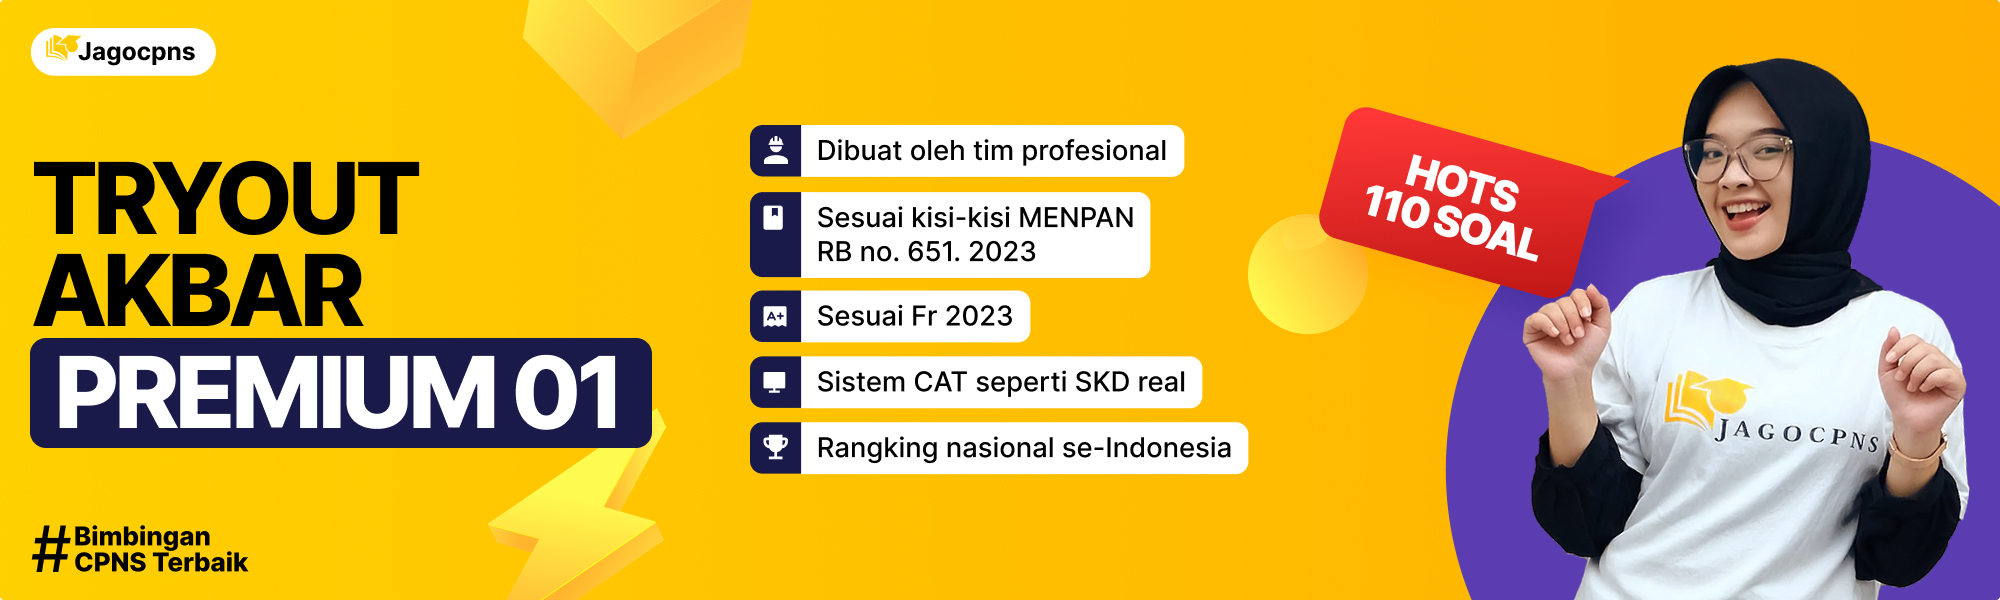
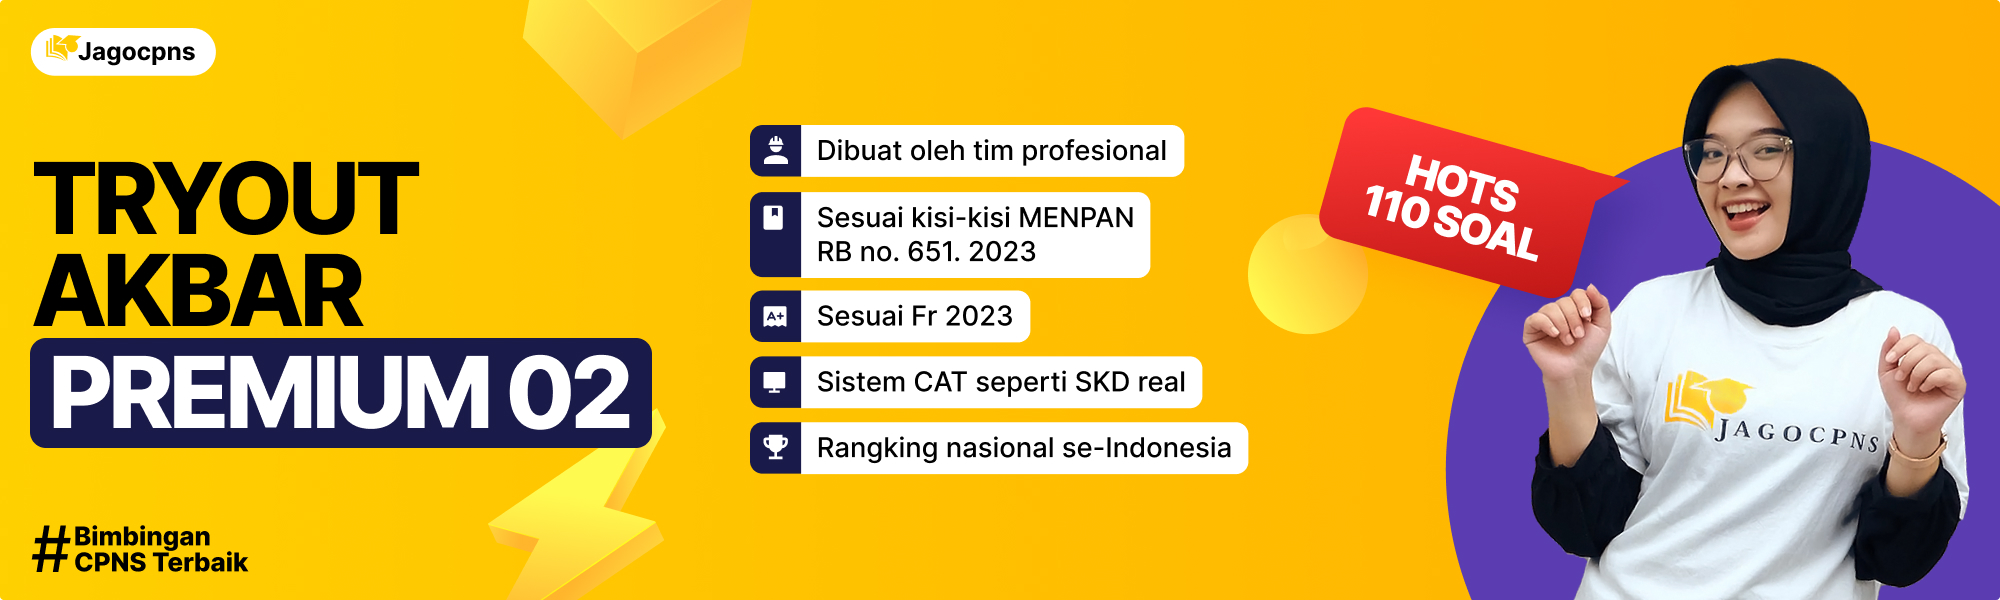
fix:caption

Changed region(s): [[0.0, 0.57, 0.341, 0.72]]

diff --git a/client/src/components/landing/PopupModal.jsx b/client/src/components/landing/PopupModal.jsx
@@ -1,6 +1,6 @@
 import { Button, Modal } from 'flowbite-react';
 import { useEffect, useState } from 'react';
-import popup from '../../assets/images/popup.png';
+import popup from '../../assets/images/popup.jpg';
 import useAuth from '../../stores/useAuth';
 import { useNavigate } from 'react-router-dom';
 
@@ -18,7 +18,7 @@ const PopupModal = () => {
   return (
     <>
       <Modal size={'xl'} show={openModal} onClose={() => setOpenModal(false)}>
-        <Modal.Header>Tryout Premium 01</Modal.Header>
+        <Modal.Header>Tryout Premium 02</Modal.Header>
         <Modal.Body>
           <div className='space-y-6 flex justify-center'>
             <img src={popup} alt='' />

diff --git a/client/src/components/app/Dashboard/HiUser.jsx b/client/src/components/app/Dashboard/HiUser.jsx
@@ -77,7 +77,7 @@ const HiUser = () => {
         <Slider {...settings}>
           <SlideContent imageUrl={bannerFirst} url={'/app/dashboard'} />
           <SlideContent url={'/app/tryoutstore'} imageUrl={bannerSecond} />
-          <SlideContent url={'/free/13'} imageUrl={bannerThird} />
+          <SlideContent url={'/app/tryoutstore'} imageUrl={bannerThird} />
           <SlideContent url={'/app/dashboard'} imageUrl={bannerForth} />
         </Slider>
       </div>
